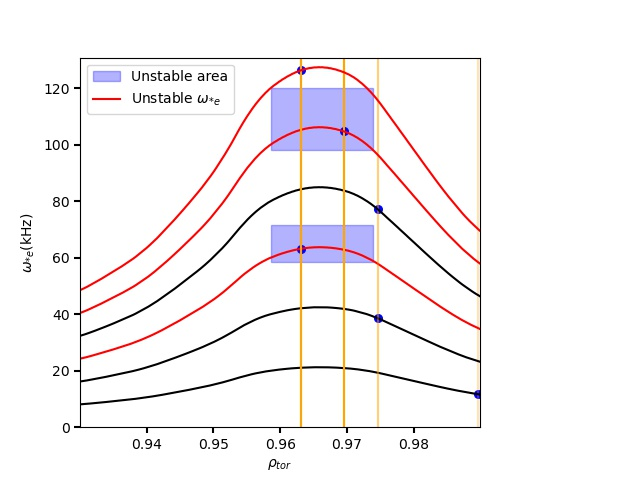
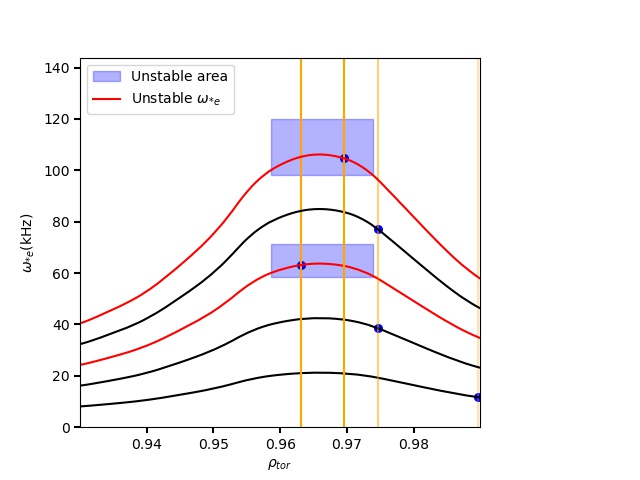
3

diff --git a/Tools/DispersionRelationDeterminantFullConductivityZeff.py b/Tools/DispersionRelationDeterminantFullConductivityZeff.py
@@ -281,16 +281,26 @@ def VectorFinder_auto_Extensive(nu,Zeff,eta,\
     num=len(x_grid)
     b=np.ones(2*num-2)
 
-    #new guessing model(02/02/2022)
-    #guess_f=np.array([1.+eta,0.5+eta,1.5+eta],dtype=float)+0.2
-    guess_f=np.arange(0.2,3.+eta,0.5)
+
+    #new guessing model(02/15/2022)
+    guess_f=np.arange(0.5,1.6+eta,0.5)
+    guess_f_list=[]
+    for f in guess_f:
+        guess_f_list.append([f,abs(f-1-eta)])
+    
+    guess_f_list=np.array(guess_f_list)
+    order_index=np.argsort(guess_f_list[:, 1])
+    
+    guess_f = guess_f_list[order_index][:,0]
+
     #guess_gamma=0.05+0.012*guess_f**2.
-    guess_mod=guess_f+1j*(0.1+0.012*guess_f**2.)
+    #guess_mod=guess_f+1j*(0.1+0.012*guess_f**2.)
+    guess_mod=guess_f+1j*1
     #print(guess_mod)
 
     guess_num=len(guess_mod)
-    w_list=np.zeros(guess_num,dtype=float)
-    odd_list=np.zeros(guess_num,dtype=float)
+    w_list=[]
+    odd_list=[]
 
     for i in range(guess_num):
         w0=guess_mod[i]
@@ -300,16 +310,17 @@ def VectorFinder_auto_Extensive(nu,Zeff,eta,\
 
         A = A_maker(x_max,del_x,w0,nu,Zeff,eta,shat,beta,ky,ModIndex,mu,xstar)
         det_A_minus = np.linalg.slogdet(A)
-        w0=w0+del_w
     
         while np.abs(del_w) > 10**(-3.):
+            w0 = w0 + del_w
             # call A_maker to create and populate matrix A
             A = A_maker(x_max,del_x,w0,nu,Zeff,eta,shat,beta,ky,ModIndex,mu,xstar)
             det_A0 = np.linalg.slogdet(A)
 
             #parameter for the next run
             del_w = -del_w/(1-(det_A_minus[0]/det_A0[0])*np.exp(det_A_minus[1]-det_A0[1]))
-            w0 = w0 + del_w
+            
+            print('w0='+str(w0))
             det_A_minus = det_A0
     
             if w0.imag<0:
@@ -346,10 +357,24 @@ def VectorFinder_auto_Extensive(nu,Zeff,eta,\
             eveness_norm=1.-evenness/total_odd_even #percentage of evenness
             
             #Apar has even parity, and positive growth
-            if oddness_norm<0.3 and np.imag(w0)>0:
-                return w0
-                break
-    return 0.
+            if oddness_norm<0.3:
+                w_list.append(w0)
+                odd_list.append(oddness_norm)
+                if np.imag(w0)>0:
+                    return w0
+                    break
+    print('w_list')
+    print(w_list)
+    print('odd_list')
+    print(odd_list)
+    if len(w_list)==0:
+        return 0
+    else:
+        growth_list=np.imag(np.array(w_list,dtype=complex))
+        index=np.argmax(growth_list)
+        
+        w0=w_list[index]
+        return w0
 
 
 #integrate the w_finder and VectorFinder
@@ -364,15 +389,15 @@ def VectorFinder_auto(nu,Zeff,eta,\
     b=np.ones(2*num-2)
 
     #new guessing model(02/02/2022)
-    #guess_f=np.array([1.+eta,0.5+eta,1.5+eta],dtype=float)+0.2
-    guess_f=np.array([2.5,0.5+eta,1.5+eta],dtype=float)+0.2
+    guess_f=1.+eta
+    #guess_f=np.arange(0.2,3.+eta,0.5)
     #guess_gamma=0.05+0.012*guess_f**2.
     guess_mod=guess_f+1j*(0.1+0.012*guess_f**2.)
     #print(guess_mod)
 
     guess_num=len(guess_mod)
-    w_list=np.zeros(guess_num,dtype=float)
-    odd_list=np.zeros(guess_num,dtype=float)
+    w_list=[]
+    odd_list=[]
 
     for i in range(guess_num):
         w0=guess_mod[i]
@@ -382,16 +407,17 @@ def VectorFinder_auto(nu,Zeff,eta,\
 
         A = A_maker(x_max,del_x,w0,nu,Zeff,eta,shat,beta,ky,ModIndex,mu,xstar)
         det_A_minus = np.linalg.slogdet(A)
-        w0=w0+del_w
     
         while np.abs(del_w) > 10**(-3.):
+            w0 = w0 + del_w
             # call A_maker to create and populate matrix A
             A = A_maker(x_max,del_x,w0,nu,Zeff,eta,shat,beta,ky,ModIndex,mu,xstar)
             det_A0 = np.linalg.slogdet(A)
 
             #parameter for the next run
             del_w = -del_w/(1-(det_A_minus[0]/det_A0[0])*np.exp(det_A_minus[1]-det_A0[1]))
-            w0 = w0 + del_w
+            
+            print('w0='+str(w0))
             det_A_minus = det_A0
     
             if w0.imag<0:
@@ -428,21 +454,34 @@ def VectorFinder_auto(nu,Zeff,eta,\
             eveness_norm=1.-evenness/total_odd_even #percentage of evenness
             
             #Apar has even parity, and positive growth
-            if oddness_norm<0.3 and np.imag(w0)>0:
-                return w0
-                break
-    return 0.
-    
+            if oddness_norm<0.3:
+                w_list.append(w0)
+                odd_list.append(oddness_norm)
+                if np.imag(w0)>0:
+                    return w0
+                    break
+    print('w_list')
+    print(w_list)
+    print('odd_list')
+    print(odd_list)
+    if len(w_list)==0:
+        return 0
+    else:
+        growth_list=np.imag(np.array(w_list,dtype=complex))
+        index=np.argmax(growth_list)
+        
+        w0=w_list[index]
+        return w0
 
 
 
 def VectorFinder_manual(nu,Zeff,eta,shat,beta,ky,ModIndex,mu,xstar):
-#    mref=2.
-#    xsigma=1/shat*np.sqrt(1./(mref*1836))
-#    xmax=xsigma*35
-#    delx=xsigma/50
-#    xmax=20.
-#    delx=0.02
+    #    mref=2.
+    #    xsigma=1/shat*np.sqrt(1./(mref*1836))
+    #    xmax=xsigma*35
+    #    delx=xsigma/50
+    #    xmax=20.
+    #    delx=0.02
     judge=0
     loopindex=0
     xmax=float(input("(x) xmax="))

diff --git a/00Equalibrium_reconstruction.py b/00Equalibrium_reconstruction.py
@@ -9,7 +9,7 @@ from SLiM_obj import mode_finder
 #**********************************************
 #**********Start of User block*****************
 Frequency_list=[65,109] #frequency observed from experiment
-weight_list=[1.,1.3]    #frequency observed from experiment
+weight_list=[1.,1.3]    #weight mu calculation for each frequency
 Frequency_error=0.10    #error for frequency
 q_scale_list=np.arange(0.95,1.05,0.005)
 q_shift_list=np.zeros(len(q_scale_list),dtype=float)
@@ -39,9 +39,11 @@ show_plot=True
 #************End of User Block*****************
 #**********************************************
 
-Run_mode=2      # mode1: fast mode
+Run_mode=5      # mode1: fast mode
                 # mode2: slow mode(global)
                 # mode3: slow mode(local) 
+                # mode4: slow mode manual(global)
+                # mode5: slow slow mode(global)
 
 mode_finder_obj=mode_finder(profile_type,profile_name,\
                             geomfile_type,geomfile_name,\
@@ -53,7 +55,7 @@ index=np.argmax(mode_finder_obj.ome)
 omega_e_lab_kHz=mode_finder_obj.ome[index]+mode_finder_obj.Doppler[index]
 
 n_min=1                              #minmum mode number (include) that finder will cover
-n_max=int(1.2*np.max(Frequency_list)/omega_e_lab_kHz)#maximum mode number (include) that finder will cover
+n_max=int((1+Frequency_error)*np.max(Frequency_list)/omega_e_lab_kHz)#maximum mode number (include) that finder will cover
 
 n0_list=np.arange(n_min,n_max+1,1)
 
@@ -128,6 +130,10 @@ for i in range(len(q_scale_list)):
 
 print(mu_works_list)
 print(q_scale_works_list)
+if len(mu_works_list)==0:
+    print('No possible variation of q profile for the given frequency range, please check the frequency or the frequency_error.')
+    exit()
+    
 index=np.argmin(mu_works_list)
 q_scale=q_scale_works_list[index]
 q_shift=q_shift_works_list[index]
@@ -145,7 +151,7 @@ mode_finder_obj.q_back_to_nominal()
 scale_list=[]
 for ne_scale in ne_scale_list:
     for te_scale in te_scale_list:
-        scale_list.append([ne_scale,te_scale,abs(1-ne_scale*te_scale)])
+        scale_list.append([ne_scale,te_scale,abs(1-ne_scale)*abs(1-te_scale)])
 
 scale_list=np.array(scale_list)
 order_index=np.argsort(scale_list[:, 2])

diff --git a/SLiM_NN/Train_Dispersion_NN.py b/SLiM_NN/Train_Dispersion_NN.py
@@ -12,7 +12,7 @@ import time
 #****************************************
 #**********start of user block***********
 filename='./NN_data/0MTM_scan_CORI_2.csv'
-epochs = 2
+epochs = 10
 batch_size = 100
 testing_output=True
 #**********end of user block*************
@@ -25,8 +25,8 @@ def create_model():
     model.add(tf.keras.Input(shape=(6))) # input layer (1)
     model.add(tf.keras.layers.Dense(units=16, activation='relu')) # input layer (1)
     model.add(tf.keras.layers.Dense(units=32, activation='relu')) # input layer (1)
-    model.add(tf.keras.layers.Dense(units=8, activation='relu')) # input layer (1)
-    model.add(tf.keras.layers.Dense(units=1, activation='relu')) # input layer (1)
+    model.add(tf.keras.layers.Dense(units=16, activation='relu')) # input layer (1)
+    model.add(tf.keras.layers.Dense(units=2, activation='relu')) # input layer (1)
 
     print(model.summary())
     
@@ -52,11 +52,9 @@ df_x=pd.DataFrame(np.transpose([df['nu'],df['zeff'],\
                     df['ky'],df['mu']/df['xstar']]),
                   columns=['nu', 'zeff','eta','shat',\
                     'ky','mu_norm'])
-#df_y=pd.DataFrame(np.transpose([df['omega_omega_n'],\
-#                    df['gamma_omega_n']]),
-#                  columns=['omega_norm','gamma_norm'])
-df_y=pd.DataFrame(np.transpose([df['omega_omega_n']]),
-                  columns=['omega_norm'])
+df_y=pd.DataFrame(np.transpose([df['omega_omega_n'],\
+                    df['gamma_omega_n']]),\
+                  columns=['omega_norm','gamma_norm'])
 
 x_train, x_test, y_train, y_test = train_test_split(df_x, df_y, test_size=0.2)
 
@@ -93,8 +91,8 @@ print(f"Runtime of the program is {end - start} s")
 #save the model
 
 #the trained model can be saved 
-model.save("./Trained_model/SLiM_NN_omega.h5")  # we can save the model and reload it at anytime in the future
-load_model = tf.keras.models.load_model('./Trained_model/SLiM_NN_omega.h5')
+model.save("SLiM_NN_omega.h5")  # we can save the model and reload it at anytime in the future
+load_model = tf.keras.models.load_model('SLiM_NN_omega.h5')
 
 
 #*********end of trainning***********************

diff --git a/SLiM_NN/Dispersion_NN_omega.py b/SLiM_NN/Dispersion_NN_omega.py
@@ -11,8 +11,7 @@ import time
 
 #**********start of user block***********
 filename='./NN_data/0MTM_scan_CORI_2.csv'
-testing_output=True
-load_model = tf.keras.models.load_model('SLiM_NN_omega.h5')
+loaded_model = tf.keras.models.load_model('./Trained_model/SLiM_NN_omega.h5')
 #**********end of user block*************
 #****************************************
 
@@ -23,41 +22,28 @@ except:
     pass
 
 df=df.astype('float')
-
 df=df.query('omega_omega_n!=0 and gamma_omega_n>0')
-
 df_x=pd.DataFrame(np.transpose([df['nu'],df['zeff'],\
                     df['eta'],df['shat'],\
                     df['ky'],df['mu']/df['xstar']]),
                   columns=['nu', 'zeff','eta','shat',\
                     'ky','mu_norm'])
-df_y=pd.DataFrame(np.transpose([df['omega_omega_n'],\
-                    df['gamma_omega_n']]),
-                  columns=['omega_norm','gamma_norm'])
+df_y=pd.DataFrame(np.transpose([df['omega_omega_n']]),\
+                  columns=['omega_norm'])
 
-x_train, x_test, y_train, y_test = train_test_split(df_x, df_y, test_size=0.2)
-
-if testing_output==True:
-    print('x_train')
-    print(x_train)
-    print('y_train')
-    print(y_train)
-
+x_train, x_test, y_train, y_test = train_test_split(df_x, df_y, test_size=0.5)
 #*********end of trainning***********************
-predictions = load_model.predict(x_train)
-print('x_train')
-print(x_train)
-print('y_train')
-print(y_train)
-print('predictions')
-print(predictions)
-print('abs(y_train-predictions)')
-print(abs(y_train-predictions))
+loaded_model.summary()
+print(df_x)
+predictions = loaded_model.predict(df_x)
 
-predictions = load_model.predict(x_test)
-print('y_test')
-print(y_test)
+print('df_x')
+print(df_x)
+print('df_y')
+print(df_y)
 print('predictions')
 print(predictions)
-print('abs(y_train-predictions)')
-print(abs(y_test-predictions))
+print('abs(df_y-predictions)')
+print(np.mean(abs(df_y-predictions)/df_y))
+print('std(df_y-predictions)')
+print(np.std(abs(df_y-predictions)/df_y))

diff --git a/SLiM_obj.py b/SLiM_obj.py
@@ -1096,7 +1096,7 @@ class mode_finder:
         
         f_max=np.max(Frequency_list)
         host.set_xlim(np.min(self.x),np.max(self.x))
-        host.set_ylim(0, np.max(f_max)*1.2)
+        host.set_ylim(0, np.max(f_max)*(1+Frequency_error)*1.2)
         #par1.set_ylim(np.min(self.q)*0.8,np.max(self.q)*1.2)
         
         host.set_xlabel(r"$\rho_{tor}$")
